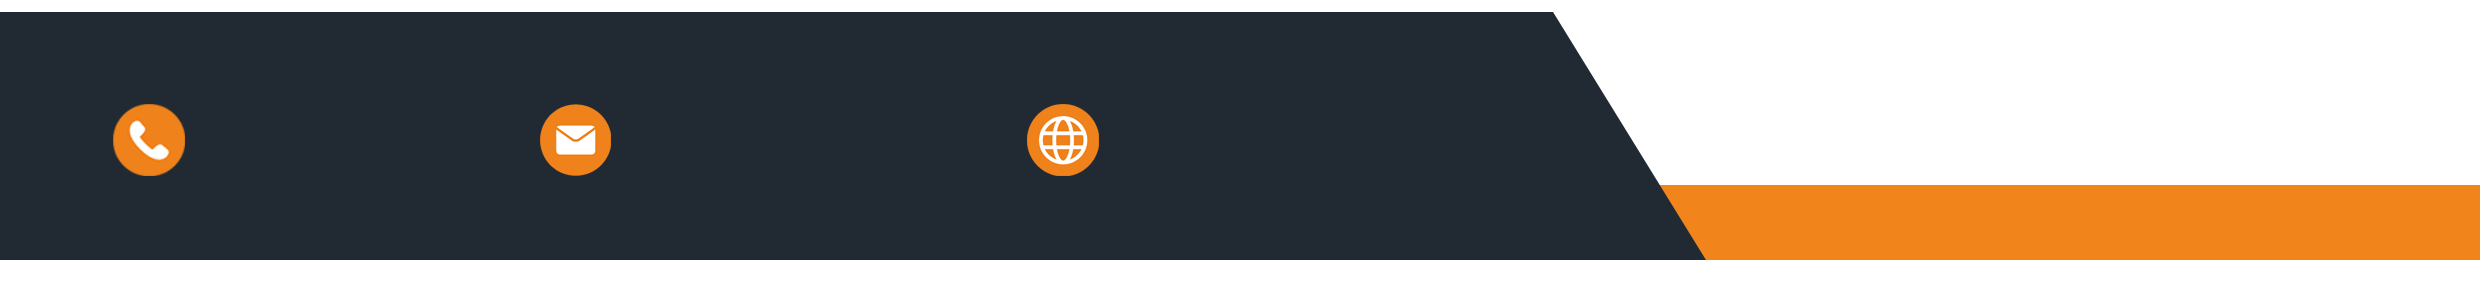
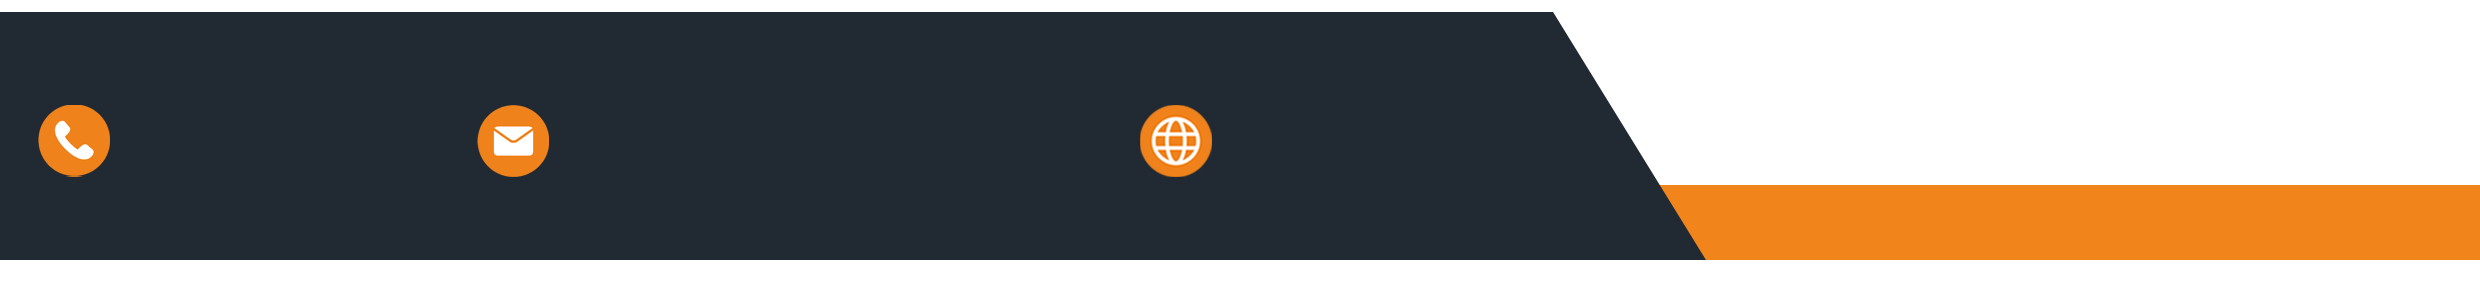
Finished Styling Invoice

Changed region(s): [[0.0, 0.3701, 0.0931, 0.6263], [0.4036, 0.3701, 0.4968, 0.6263], [0.1863, 0.3701, 0.2484, 0.6263]]

diff --git a/invoice_app/templates/invoice.html b/invoice_app/templates/invoice.html
@@ -7,17 +7,65 @@
   <title>Invoice Template</title>
   <link rel="stylesheet" href="https://cdn.jsdelivr.net/npm/bootstrap@4.3.1/dist/css/bootstrap.min.css" integrity="sha384-ggOyR0iXCbMQv3Xipma34MD+dH/1fQ784/j6cY/iJTQUOhcWr7x9JvoRxT2MZw1T" crossorigin="anonymous">
   <style>
-    .table{
-        display : inline-block !important ; 
-    }
     .header{
       width : 100%;
-      height : 50%;
       }
+      .contentbody{
+        min-height : 50vh;
+      }
+      .companyAddress{
+        margin : 30px;
+        font-weight : bold;  
+      }
+      .totalBar{
+        padding-left : 40px;
+        padding-right : 10px;
+        padding-top : 20px;
+        padding-bottom : 20px;
+        display : flex;
+        justify-content : space-between;
+        background-color : #212a33; 
+        color : white;
+        font-weight : bold;  
+      }
+      .tableHead{
+        background-color : #212a33 !important;
+      }
+      .footerDetails{
+        position : relative;
+      }
+      .phone{
+        position : absolute;
+        top : 48px;
+        left : 70px;
+        color : white !important;
+        font-weight : bold;
+        cursor : pointer;
+        font-size : 18px;
+      }
+      .mail{
+        position : absolute;
+        top : 48px;
+        left : 260px;
+        color : white !important;
+        font-weight : bold;
+        cursor : pointer;
+        font-size : 16px;
+      }
+      .website{
+        position : absolute;
+        top : 48px;
+        left : 555px;
+        color : white !important;
+        font-weight : bold;
+        cursor : pointer;
+        font-size : 16px;
+      }
+
   </style>
 </head>
 <body>
-  <div class="card text-dark">
+  <div class="container">
     <img src = "{% static 'images/header.png' %}" class ="header">
     <div class="centered-content">
         
@@ -35,15 +83,15 @@
             </div>
      
 
-        <div class="card">
+        <div class="card contentbody">
             <table class="table">
                 <thead class="thead-dark">
-                    <tr>
-                        <th scope="col" > # </th>
-                        <th scope="col" > Item Description </th>
-                        <th scope="col" > Quantity </th>
-                        <th scope="col" > Price </th>
-                        <th scope="col" > Total </th>
+                    <tr class = "tableHead">
+                        <th class = "tableHead" scope="col" > # </th>
+                        <th class = "tableHead" scope="col" > Item Description </th>
+                        <th class = "tableHead" scope="col" > Quantity </th>
+                        <th class = "tableHead" scope="col" > Price </th>
+                        <th class = "tableHead" scope="col" > Total </th>
                     </tr>
                 </thead>
                 <tbody>
@@ -57,12 +105,27 @@
                     </tr>
                     {% endfor %}
                 </tbody>
-            </table>
-            <h1>{{sub_total}}</h1>
-        </div>
 
+              </table>
+            </div>
+            <div class = "totalBar">
+              <span>Total :</span>
+              <span>{{sub_total}}</span>
+            </div>
+            <p class = "companyAddress">
+              AR Home Renovation and Construction Inc. C/O <br>
+              Amandeep Singh <br>
+              411 Poplar Avenue <br>
+              C1N 2B9, Summerside <br>
+            </p>
 
     </div>
+      <div class = "footerDetails">
+        <img src = "{% static 'images/footer.png' %}" class ="header">
+        <a class = "phone" href = "tel: 647-622-4449"> 647-622-4449  </a>
+        <a class = "mail" href = "mailto: arhomerenovation1@gmail.com"> arhomerenovation1@gmail.com  </a>
+        <a class = "website" href = "https://arhomerenovation.ca/"> arhomerenovation.ca  </a>
+      </div>  
   </div>
 </body>
 </html>

diff --git a/invoice_app/views.py b/invoice_app/views.py
@@ -6,7 +6,6 @@ from xhtml2pdf import pisa
 from .models import Invoice, Item
 
 def invoice_page(request):
-    print("ABCD")
     if request.method == 'POST':
         billing_address = request.POST.get('billingAddress')
         invoice_number = request.POST.get('invoiceNumber')
